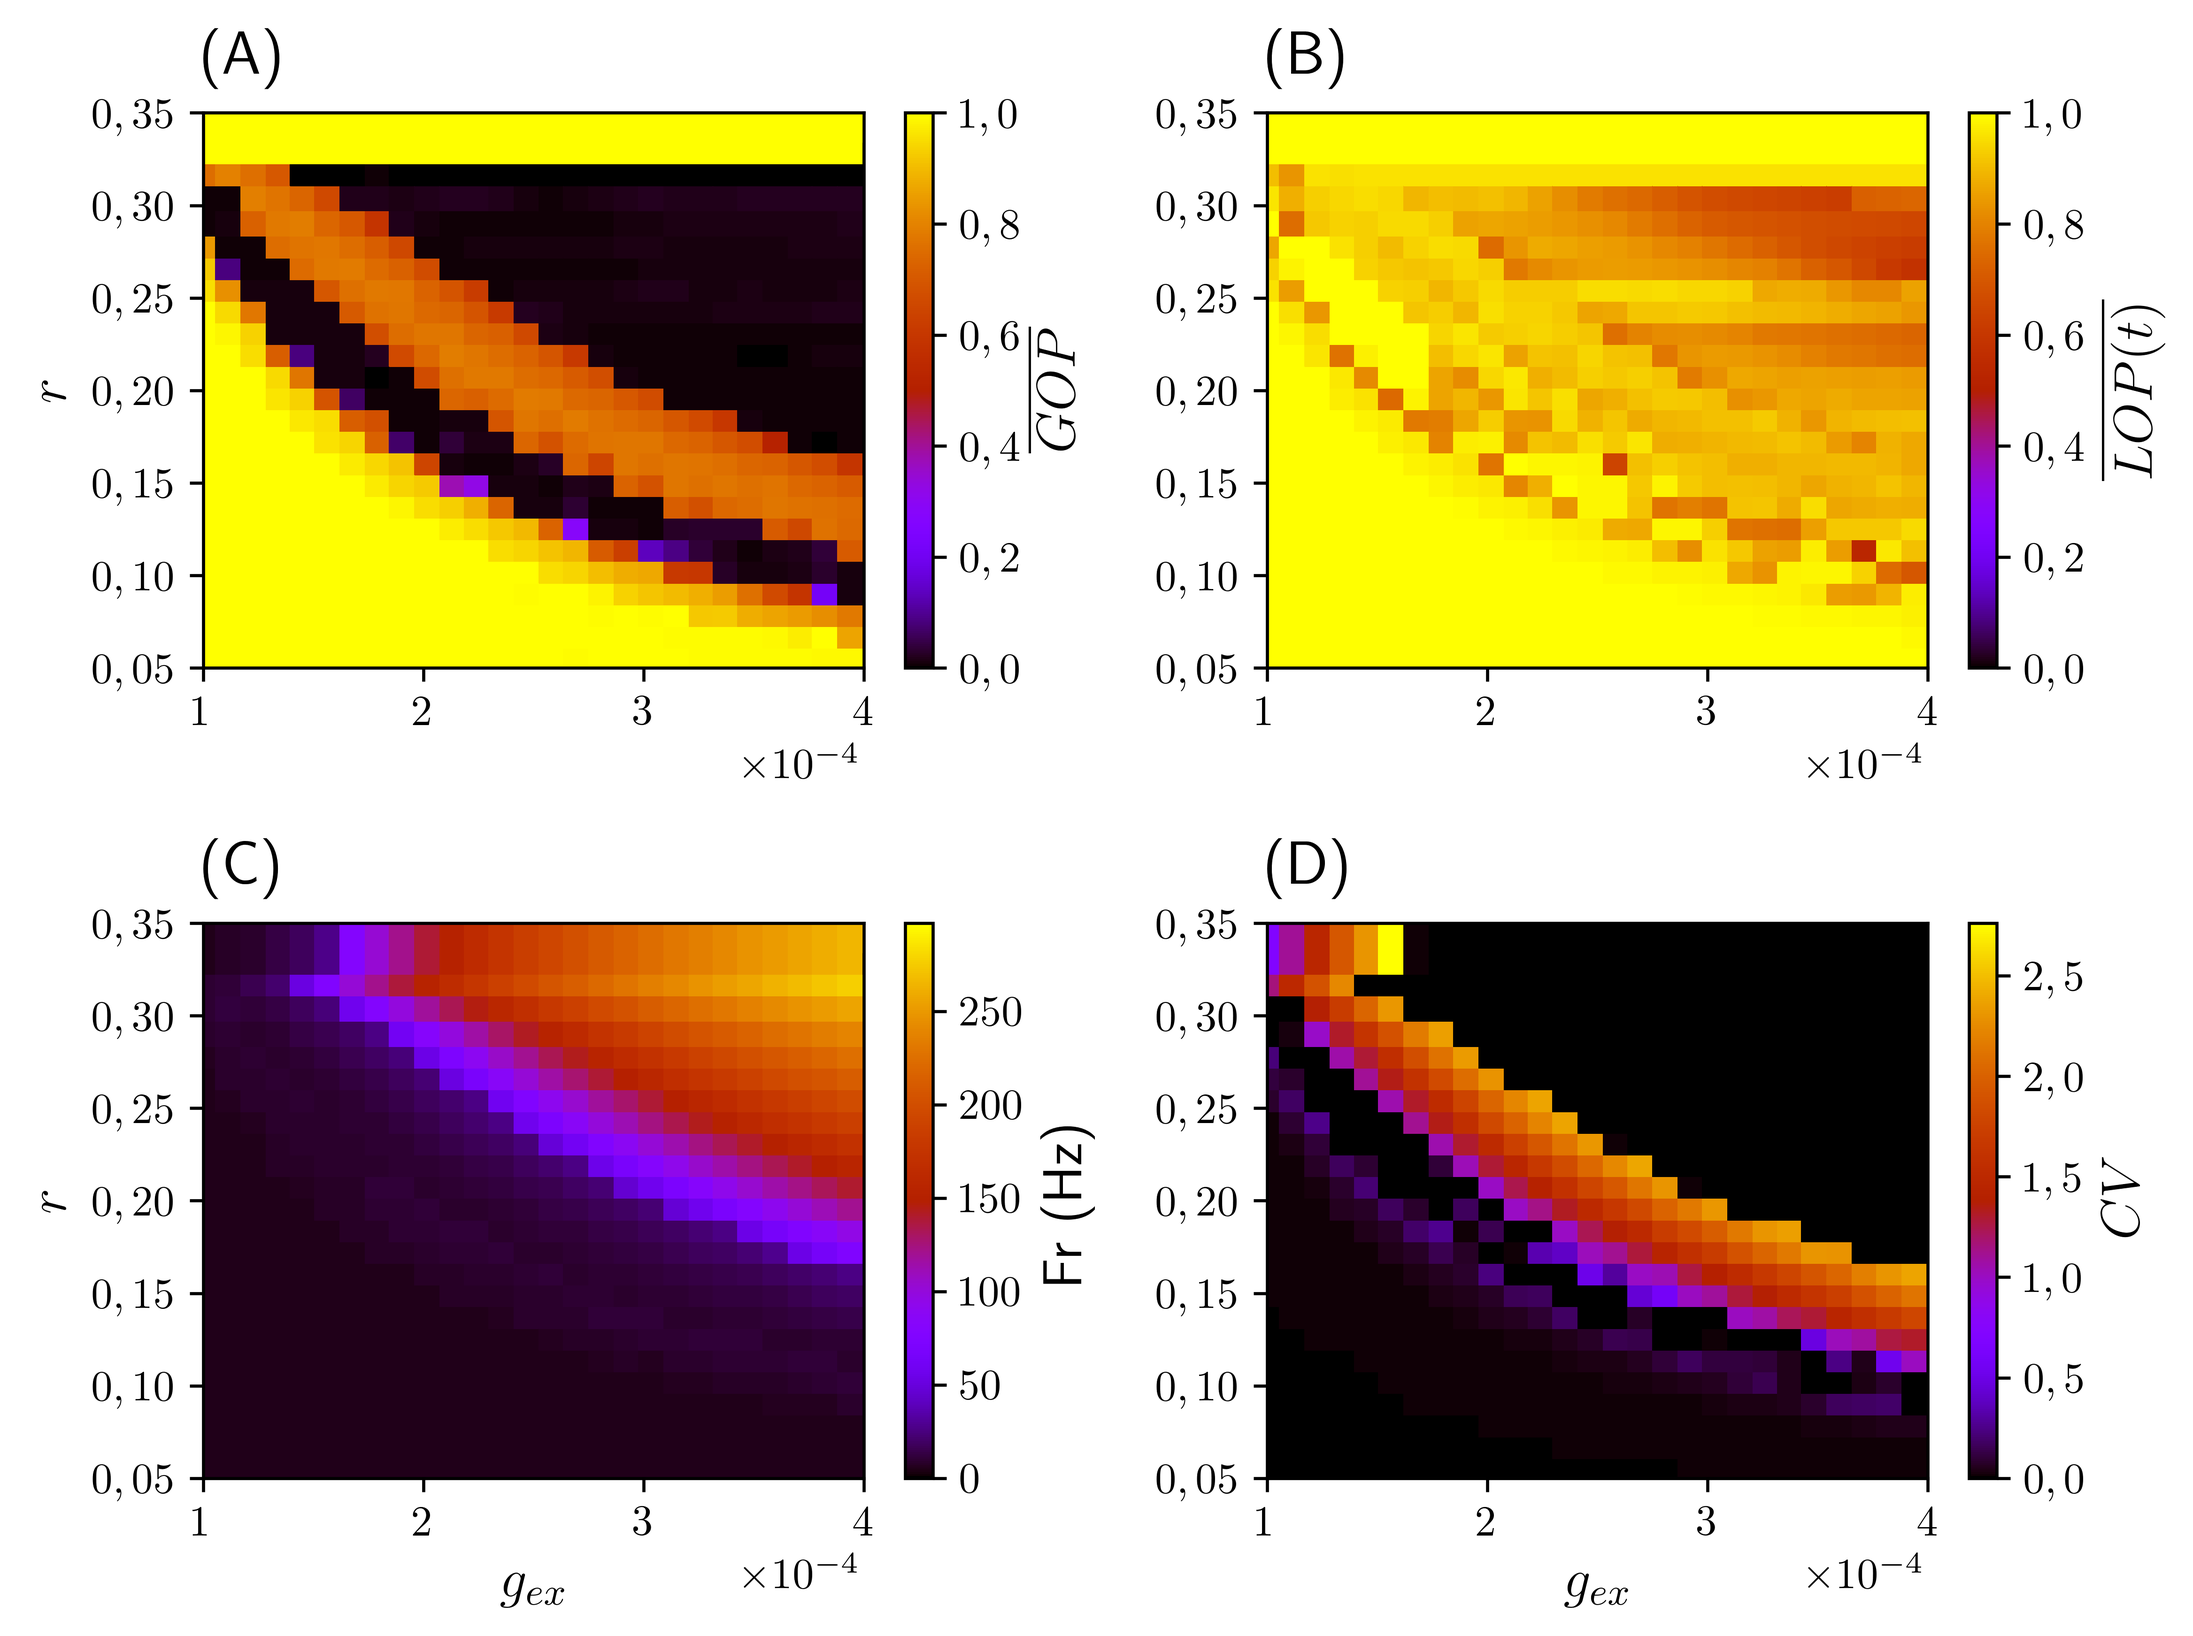
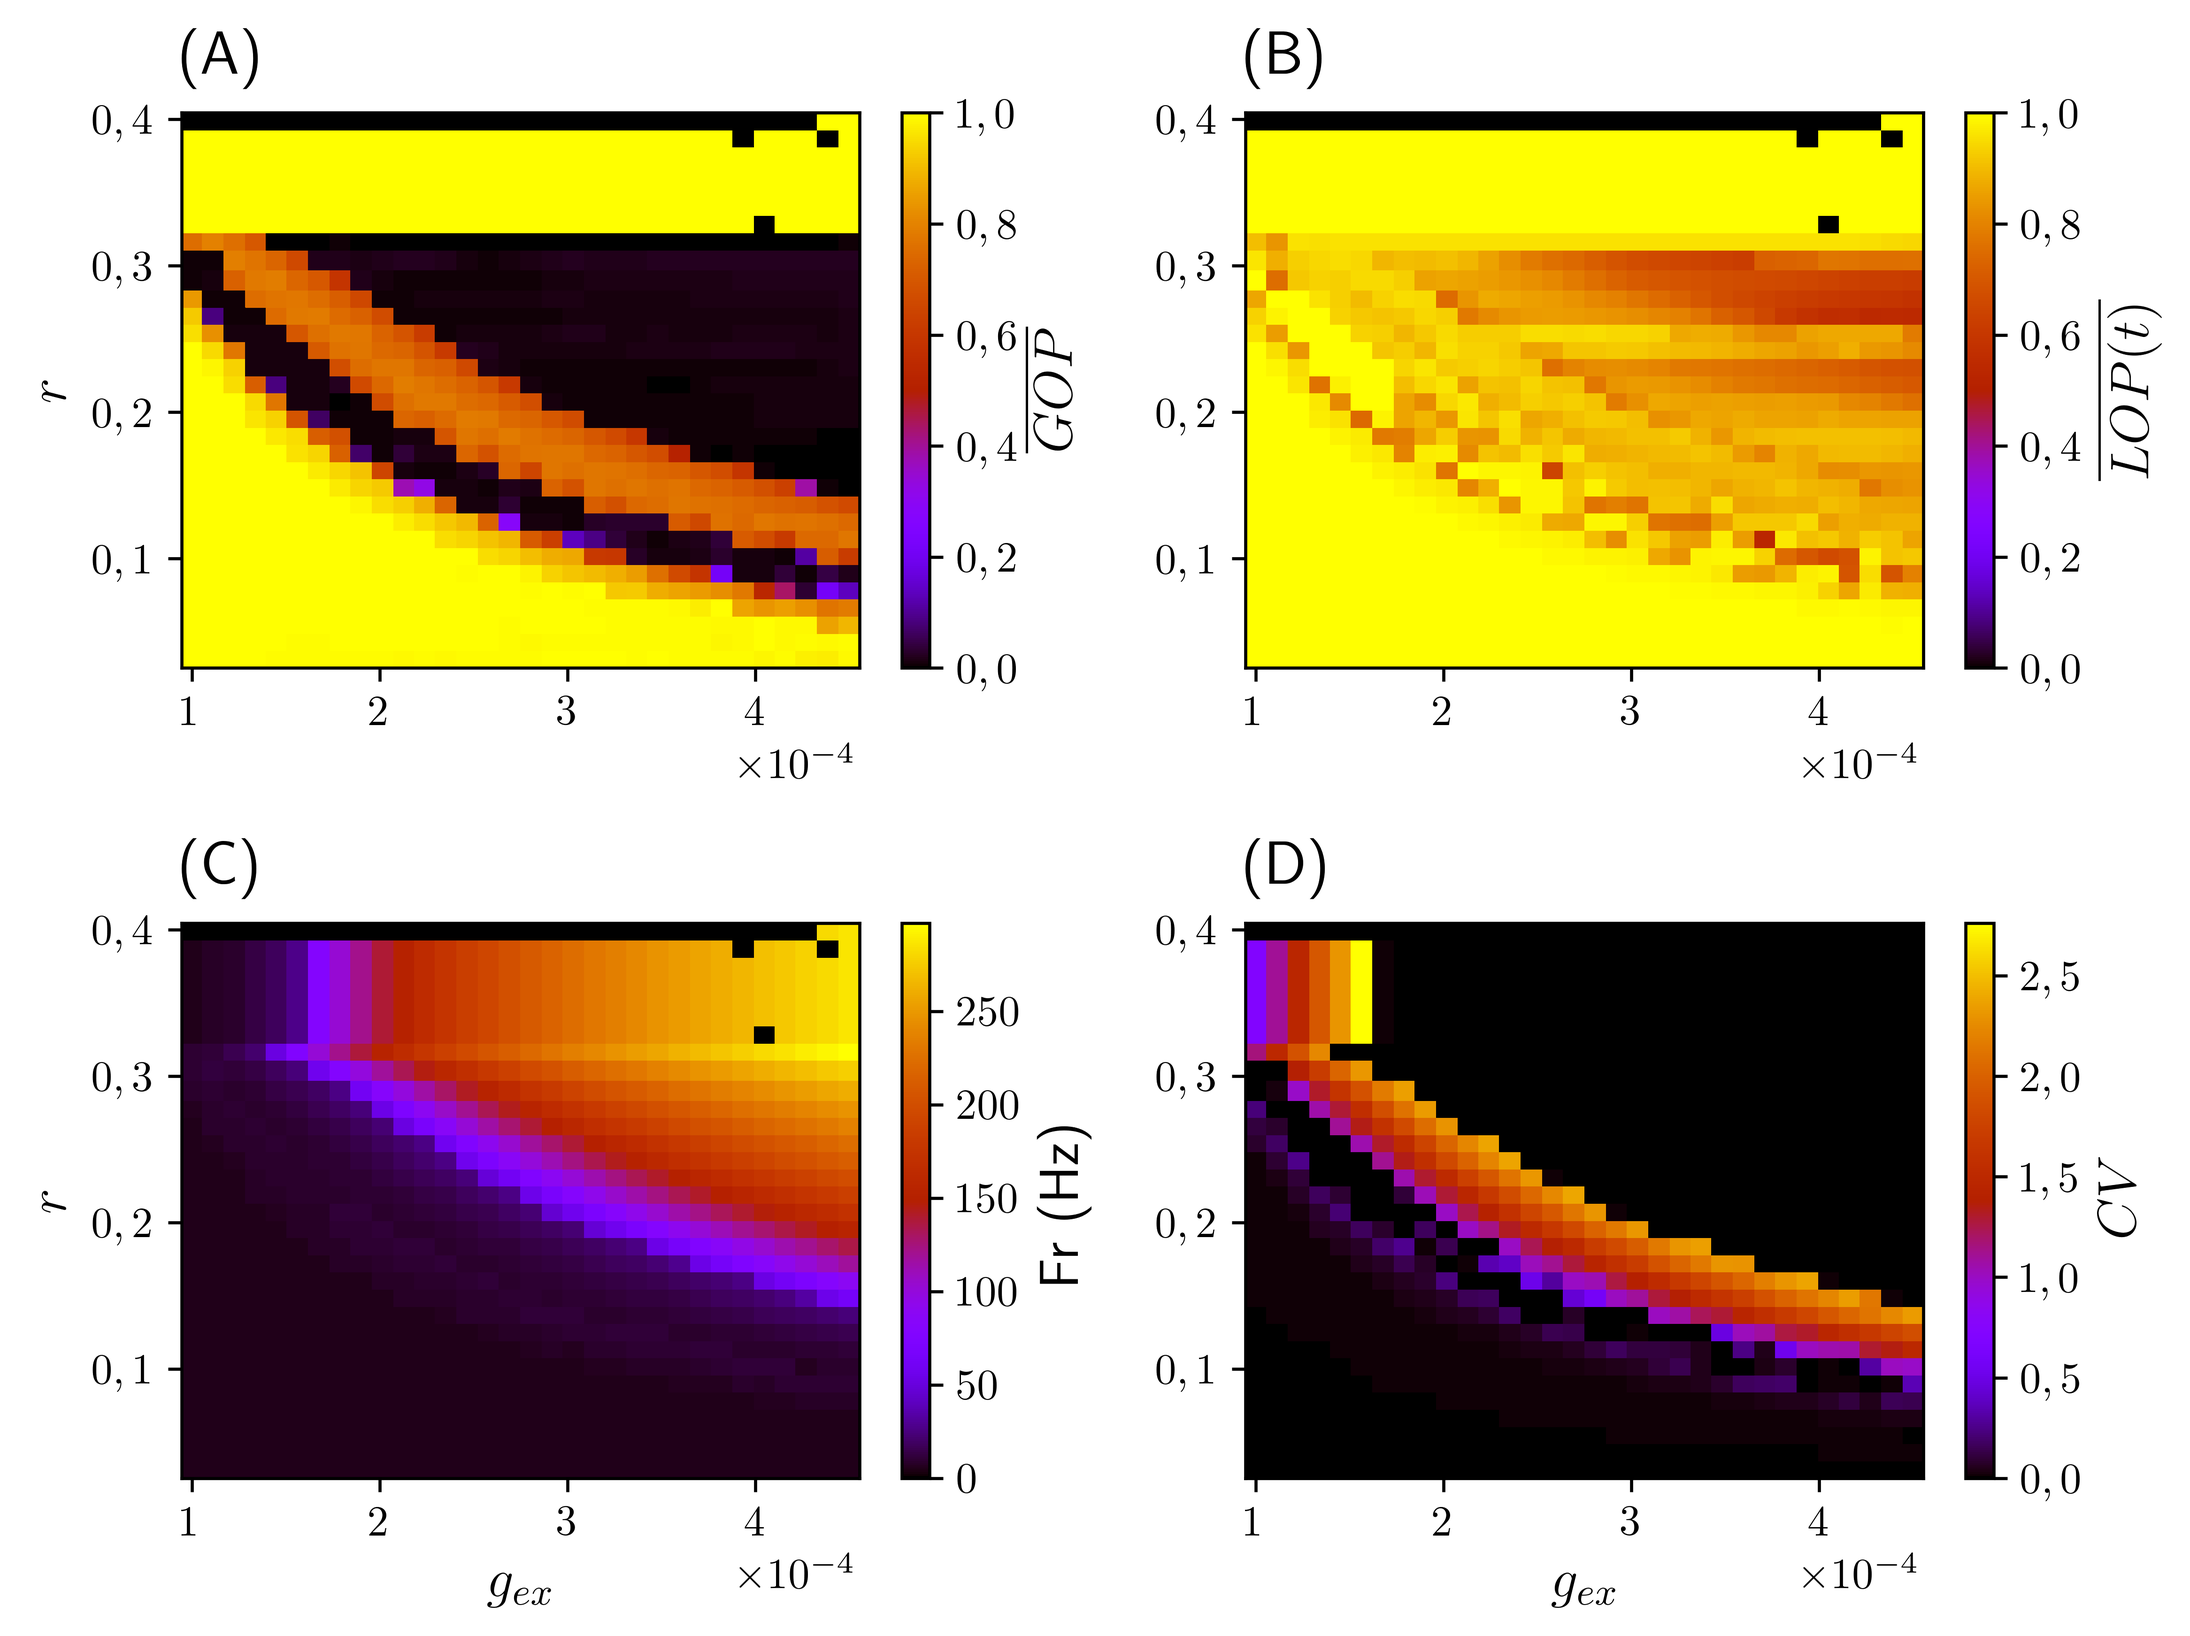
pycodes and figures

diff --git a/pycodes/plotSpace.py b/pycodes/plotSpace.py
@@ -105,12 +105,8 @@ from matplotlib import pyplot as plt
 import matplotlib.colors as mcolors
 from matplotlib.colors import LinearSegmentedColormap, ListedColormap
 import locale
-<<<<<<< HEAD
-# locale.setlocale(locale.LC_ALL, 'de_DE')     
-=======
 import latex
 locale.setlocale(locale.LC_ALL, 'pt_BR.UTF-8')       
->>>>>>> 92fe0a5 (update pc danilo)
 
 cores = list(mcolors.TABLEAU_COLORS.keys())
 cores = [cor.split(':')[-1] for cor in cores]
@@ -129,17 +125,11 @@ def plot_params():
     plt.rcParams['pcolor.shading'] = 'nearest'
 plot_params()
 
-<<<<<<< HEAD
-v = 2
-resol = 32
-with open(f'../data/v{v}_batch1/space_param_v{v}_batch1.pkl', 'rb') as f:
-=======
 file = 'space_param_v2_batch1_copy'
 
 v = 1
 resol = 32
 with open(f'../results_spaceparams/{file}.pkl', 'rb') as f:
->>>>>>> 92fe0a5 (update pc danilo)
     data_space_param = pickle.load(f)
 
 # cellNumber = data_space_param['infosNetWork']['cellNumber']
@@ -173,13 +163,10 @@ print(mean_LOP_arr.shape)
 
 fig, ax = plt.subplots(ncols=2, nrows=2, figsize=(8,6))
 fig.set_tight_layout(20)
-<<<<<<< HEAD
-fig.suptitle('Rede de 256 neurônios, transiente 24s, amostra 1s,\n $g_{ex} = 250 \\mu S/cm²$')
-=======
 # fig.suptitle('Rede de 256 neurônios, transiente 24s, amostra 1s,\n $g_{ex} = 250 \\mu S/cm²$')
->>>>>>> 92fe0a5 (update pc danilo)
 
-tg, ig = np.meshgrid(axis_amp[1:], axis_gex[1:])
+# tg, ig = np.meshgrid(axis_neighbours[1:]/256, axis_gex[1:])
+tg, ig = np.meshgrid(axis_amp[1:]*1000, axis_gex[1:])
 
 # ax[0][0].set_title('$\overline{GOP(t)}$')
 ax[0][0].set_title('(A)', loc='left',pad=10)
@@ -207,22 +194,16 @@ cbar02.set_label(r'$CV$')
 
 # for linha in ax:
 #     for coluna in linha:
-<<<<<<< HEAD
-#         coluna.set_ylim(0.16,0.2)
-#         coluna.set_xlim(2e-4,)
-=======
-#         coluna.set_ylim(0.05,0.35)
-#         coluna.set_xlim(1e-4,4e-4)
->>>>>>> 92fe0a5 (update pc danilo)
+#         coluna.set_ylim(None,0.4)
+#         coluna.set_xlim(1e-4,3.5e-4)
 
-ax[0][0].set_ylabel('$I_{ext}$')
-ax[1][0].set_ylabel('$I_{ext}$')
-ax[1][0].set_xlabel('$g_{ex}$')
-ax[1][1].set_xlabel('$g_{ex}$')
+ax[0][0].set_ylabel('$I_{ext}$ ($pA$)')
+ax[1][0].set_ylabel('$I_{ext}$ ($pA$)')
 
-<<<<<<< HEAD
-plt.savefig(f'../data/v{v}_batch1/'+f'SpaceParam_{v}_neigh_gex.png', dpi=600, bbox_inches='tight', format='png')
-=======
+# ax[0][0].set_ylabel('$r$')
+# ax[1][0].set_ylabel('$r$')
+ax[1][0].set_xlabel('$g_{ex}$ ($mS/cm²$)')
+ax[1][1].set_xlabel('$g_{ex}$ ($mS/cm²$)')
+
 plt.savefig(f'{file}.png', dpi=600, bbox_inches='tight', format='png')
->>>>>>> 92fe0a5 (update pc danilo)
 plt.show()

diff --git a/pycodes/rheobase_chronaxia.py b/pycodes/rheobase_chronaxia.py
@@ -1,0 +1,76 @@
+import pickle
+import numpy as np
+from matplotlib import pyplot as plt, ticker
+import matplotlib.colors as mcolors
+from matplotlib.colors import LinearSegmentedColormap, ListedColormap
+import locale
+import latex
+locale.setlocale(locale.LC_ALL, 'pt_BR.UTF-8')       
+
+cores = list(mcolors.TABLEAU_COLORS.keys())
+cores = [cor.split(':')[-1] for cor in cores]
+
+def plot_params():
+    plt.rc('text', usetex=True)
+    plt.rc('font', size=13)
+    plt.rc('xtick', labelsize=11)
+    plt.rc('ytick', labelsize=11)
+    plt.rc('axes', labelsize=14)
+    plt.rc('legend', fontsize=8)
+    plt.rc('lines', linewidth=1.0)
+    plt.rcParams["axes.formatter.limits"] = (-3, 4)
+    plt.rcParams['axes.formatter.use_locale'] = True
+    plt.rc('font', **{'family': 'serif', 'serif': ['Computer Modern']})
+    plt.rcParams['pcolor.shading'] = 'nearest'
+plot_params()
+
+with open('../results/dados_reobase_chronaxia.pkl','rb') as pklfile:
+    dados = pickle.load(pklfile)
+
+
+chronaxie_percent_stimulus = dados['chronaxie_percent_stimulus']
+i_exts = dados['i_exts']
+frequencias = dados['frequencias']
+cvs = dados['cvs']
+
+
+
+cm = 1/2.54
+
+
+fig, ax = plt.subplots(ncols=1, nrows=1, figsize=(12*cm, 10*cm))
+fig.set_tight_layout(20)
+
+
+tg, ig = np.meshgrid(i_exts*1000, chronaxie_percent_stimulus*100)
+
+hm00 = ax.pcolor(ig, tg, frequencias, cmap='gnuplot2')
+cbar00 = fig.colorbar(hm00, ax=ax)#, cax=cax1, format=formater)
+cbar00.set_label(r'$Fr$ (Hz)')
+
+# hm01 = ax[1].pcolor(ig, tg, cvs, cmap='gnuplot2')
+# cbar01 = fig.colorbar(hm01, ax=ax[1])#, cax=cax1, format=formater)
+# cbar01.set_label(r'$\overline{CV}$')
+
+ax.set_title('(A)', loc='left', pad=20)
+# ax[1].set_title('(B)', loc='left', pad=20)
+
+ax.set_xlabel('Tempo de estímulo \n(\% do tempo de simulação em ms)', fontsize=14)
+# ax[1].set_xlabel('Tempo de estímulo (\% do tempo de simulação)', fontsize=12)
+
+# vals0 = ax[0].get_xticks()
+# ax[0].set_xticklabels(['{:,.2%}'.format(x) for x in vals0])
+# vals1 = ax[0].get_xticks()
+# ax[1].set_xticklabels(['{:,.2%}'.format(x) for x in vals1])
+
+# ax[0].xaxis.set_major_formatter(ticker.FormatStrFormatter("%d"))
+# ax[1].xaxis.set_major_formatter(ticker.FormatStrFormatter("%d"))
+
+# ax[0].set_ylabel('$I_{ext}$ ($pA$)')
+ax.set_ylabel('$I_{ext}$ ($pA$)')
+
+ax.annotate('(I)', xy=(0,0), xytext=(20,100), color='white', fontsize=24)
+ax.annotate('(II)', xy=(0,0), xytext=(80,150), color='black', fontsize=24)
+
+
+plt.savefig('reobase_chronaxia.png', dpi=600, bbox_inches='tight', format='png')

diff --git a/pycodes/gm_iext_frequencia_yamada.py b/pycodes/gm_iext_frequencia_yamada.py
@@ -1,0 +1,68 @@
+import pickle
+import numpy as np
+from matplotlib import pyplot as plt
+import matplotlib.colors as mcolors
+from matplotlib.colors import LinearSegmentedColormap, ListedColormap
+import locale
+import latex
+locale.setlocale(locale.LC_ALL, 'pt_BR.UTF-8')       
+
+cores = list(mcolors.TABLEAU_COLORS.keys())
+cores = [cor.split(':')[-1] for cor in cores]
+
+def plot_params():
+    plt.rc('text', usetex=True)
+    plt.rc('font', size=13)
+    plt.rc('xtick', labelsize=11)
+    plt.rc('ytick', labelsize=11)
+    plt.rc('axes', labelsize=14)
+    plt.rc('legend', fontsize=8)
+    plt.rc('lines', linewidth=1.0)
+    plt.rcParams["axes.formatter.limits"] = (-3, 4)
+    plt.rcParams['axes.formatter.use_locale'] = True
+    plt.rc('font', **{'family': 'serif', 'serif': ['Computer Modern']})
+    plt.rcParams['pcolor.shading'] = 'nearest'
+plot_params()
+
+with open('../results/gm_iext_frequencia_yamada.pkl','rb') as pklfile:
+    dados_freq_cv_yamada = pickle.load(pklfile)
+
+gms = dados_freq_cv_yamada['gms']
+i_exts = dados_freq_cv_yamada['i_exts']
+frequencias = dados_freq_cv_yamada['frequencias']
+cvs = dados_freq_cv_yamada['cvs']
+
+cm = 1/2.54
+
+
+fig, ax = plt.subplots(ncols=2, nrows=1, figsize=(25*cm, 10*cm))
+fig.set_tight_layout(20)
+
+
+tg, ig = np.meshgrid(i_exts*1000, gms*100)
+
+hm00 = ax[0].pcolor(ig, tg, frequencias, cmap='gnuplot2')
+cbar00 = fig.colorbar(hm00, ax=ax[0])#, cax=cax1, format=formater)
+cbar00.set_label(r'$Fr$ (Hz)')
+
+hm01 = ax[1].pcolor(ig, tg, cvs, cmap='gnuplot2')
+cbar01 = fig.colorbar(hm01, ax=ax[1])#, cax=cax1, format=formater)
+cbar01.set_label(r'$\overline{CV}$')
+
+ax[0].set_title('(A)', loc='left', pad=20)
+ax[1].set_title('(B)', loc='left', pad=20)
+
+ax[0].set_xlabel('$g_{M}$ ($mS/cm²$)')
+ax[1].set_xlabel('$g_{M}$ ($mS/cm²$)')
+
+ax[0].set_ylabel('$I_{ext}$ ($pA$)')
+
+
+ax[0].annotate('(I)', xy=(6e-3,60),  color='white', fontsize=24)
+ax[0].annotate('(II)', xy=(3e-3,160), color='white', fontsize=24)  
+
+ax[1].annotate('(I)', xy=(6e-3,60),  color='white', fontsize=24)
+ax[1].annotate('(II)', xy=(3e-3,160), color='white', fontsize=24)  
+
+
+plt.savefig('gm_iext_frequencia_yamada.png', dpi=600, bbox_inches='tight', format='png')

diff --git a/pycodes/dinamica_HH_Yamamada.py b/pycodes/dinamica_HH_Yamamada.py
@@ -57,9 +57,9 @@ import seaborn as sns
 plot_params()
 cm = 1/2.54
 
-fig, axs = plt.subplots(ncols=2, nrows=2, figsize=(25*cm, 10*cm))
-gs = gridspec.GridSpec(ncols=2, nrows=2, width_ratios=[2,1.5], height_ratios=[1,1])
-fig.set_tight_layout(20)
+fig, axs = plt.subplots(ncols=2, nrows=2, figsize=(20*cm, 10*cm))
+gs = gridspec.GridSpec(ncols=2, nrows=2, width_ratios=[2,1.8])
+fig.set_tight_layout(10)
 
 ax1 = plt.subplot(gs[:, 1])
 
@@ -78,10 +78,10 @@ axs[1][0].set_xlabel('Tempo (ms)')
 
 
 
-ax1.scatter(correntes, frq_hh, color='blue', s=1)
-ax1.scatter(correntes, frq_ym, color='orange', s=1)
-sns.lineplot(x = correntes, y = frq_hh, color='blue', ax=ax1, label='Modelo Hodgkin-Huxley')
-sns.lineplot(x = correntes, y = frq_ym, color='red', ax=ax1 , label='Modelo Yamada')
+ax1.scatter(correntes*1000, frq_hh, color='blue', s=1)
+ax1.scatter(correntes*1000, frq_ym, color='orange', s=1)
+sns.lineplot(x = correntes*1000, y = frq_hh, color='blue', ax=ax1, label='Modelo Hodgkin-Huxley')
+sns.lineplot(x = correntes*1000, y = frq_ym, color='red', ax=ax1 , label='Modelo Yamada')
 
 ax1.spines['right'].set_visible(False)
 ax1.spines['top'].set_visible(False)
@@ -89,6 +89,8 @@ ax1.spines['top'].set_visible(False)
 ax1.set_title('(C)', loc='left')
 ax1.set_ylabel('Frequência (Hz)')
 ax1.set_xlabel('$I_{ext}$ ($p$A)')
+
+ax1.set_xlim(0,800)
 
 plt.savefig('dinamica_HH_Yamamada.png', dpi=600, bbox_inches='tight', format='png')
 

diff --git a/pycodes/plotAll.py b/pycodes/plotAll.py
@@ -102,13 +102,8 @@ def plotAll(t_peaks, last_phases, lop_sample, mean_lop, last_lop, t_phase, gop_s
 v = str(sys.argv[1])
 i = str(sys.argv[2])
 j = str(sys.argv[3])
-# batch = sys.argv[2]
-# batch_number = 'batch'+str(batch.zfill(4))
-# subbatch = sys.argv[3]
-# subbatch_number = '0_'+str(subbatch)
-# file = f'../data3/v{v}_{batch_number}/v{v}_{batch_number}_{subbatch_number}'
-folder = f'../figures2/'
-file = f'../data/v{v}_batch1/v{v}_batch1_{i}_{j}'
+folder = f'../figures/'
+file = f''
 
 # file = f'../data/v{v}_batch{batch}/v{v}_batch{batch}_0_{subbatch}'
 # file = f'../data/v0_batch0/v0_batch0'
